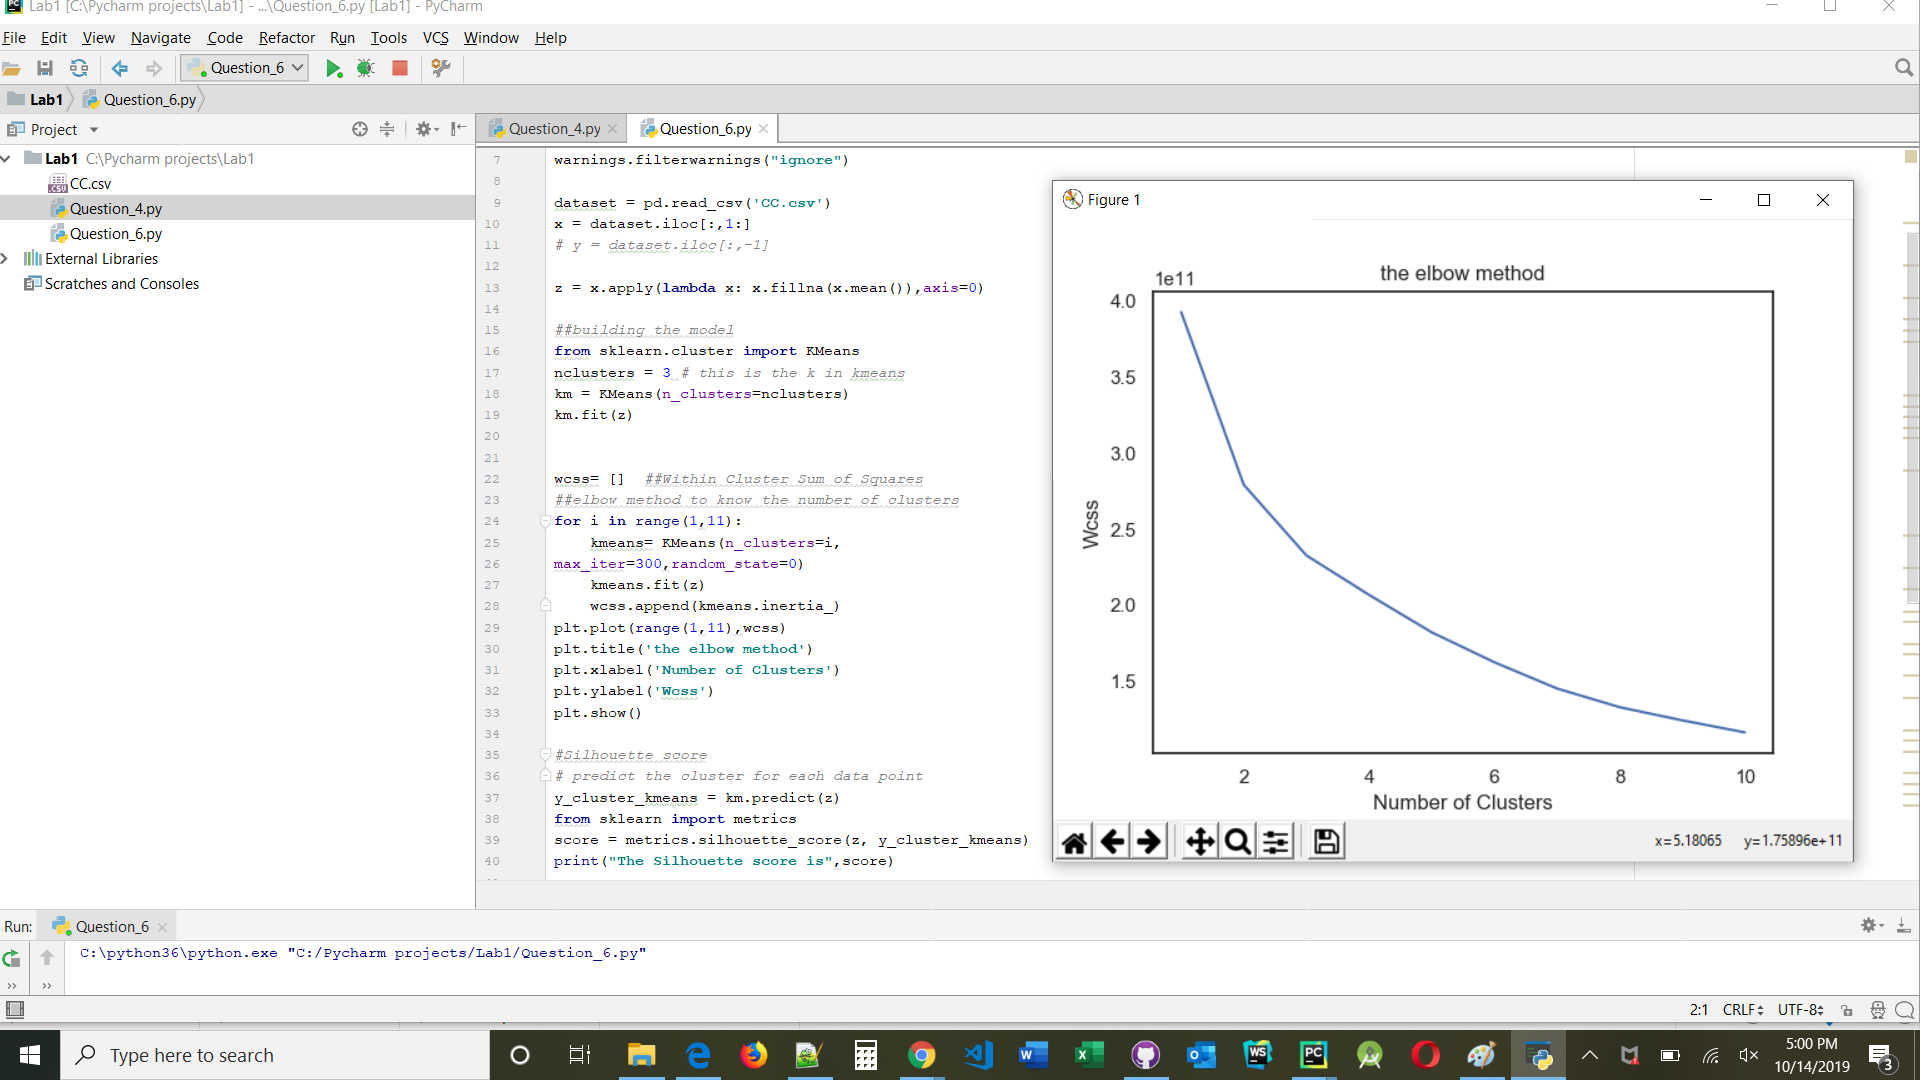
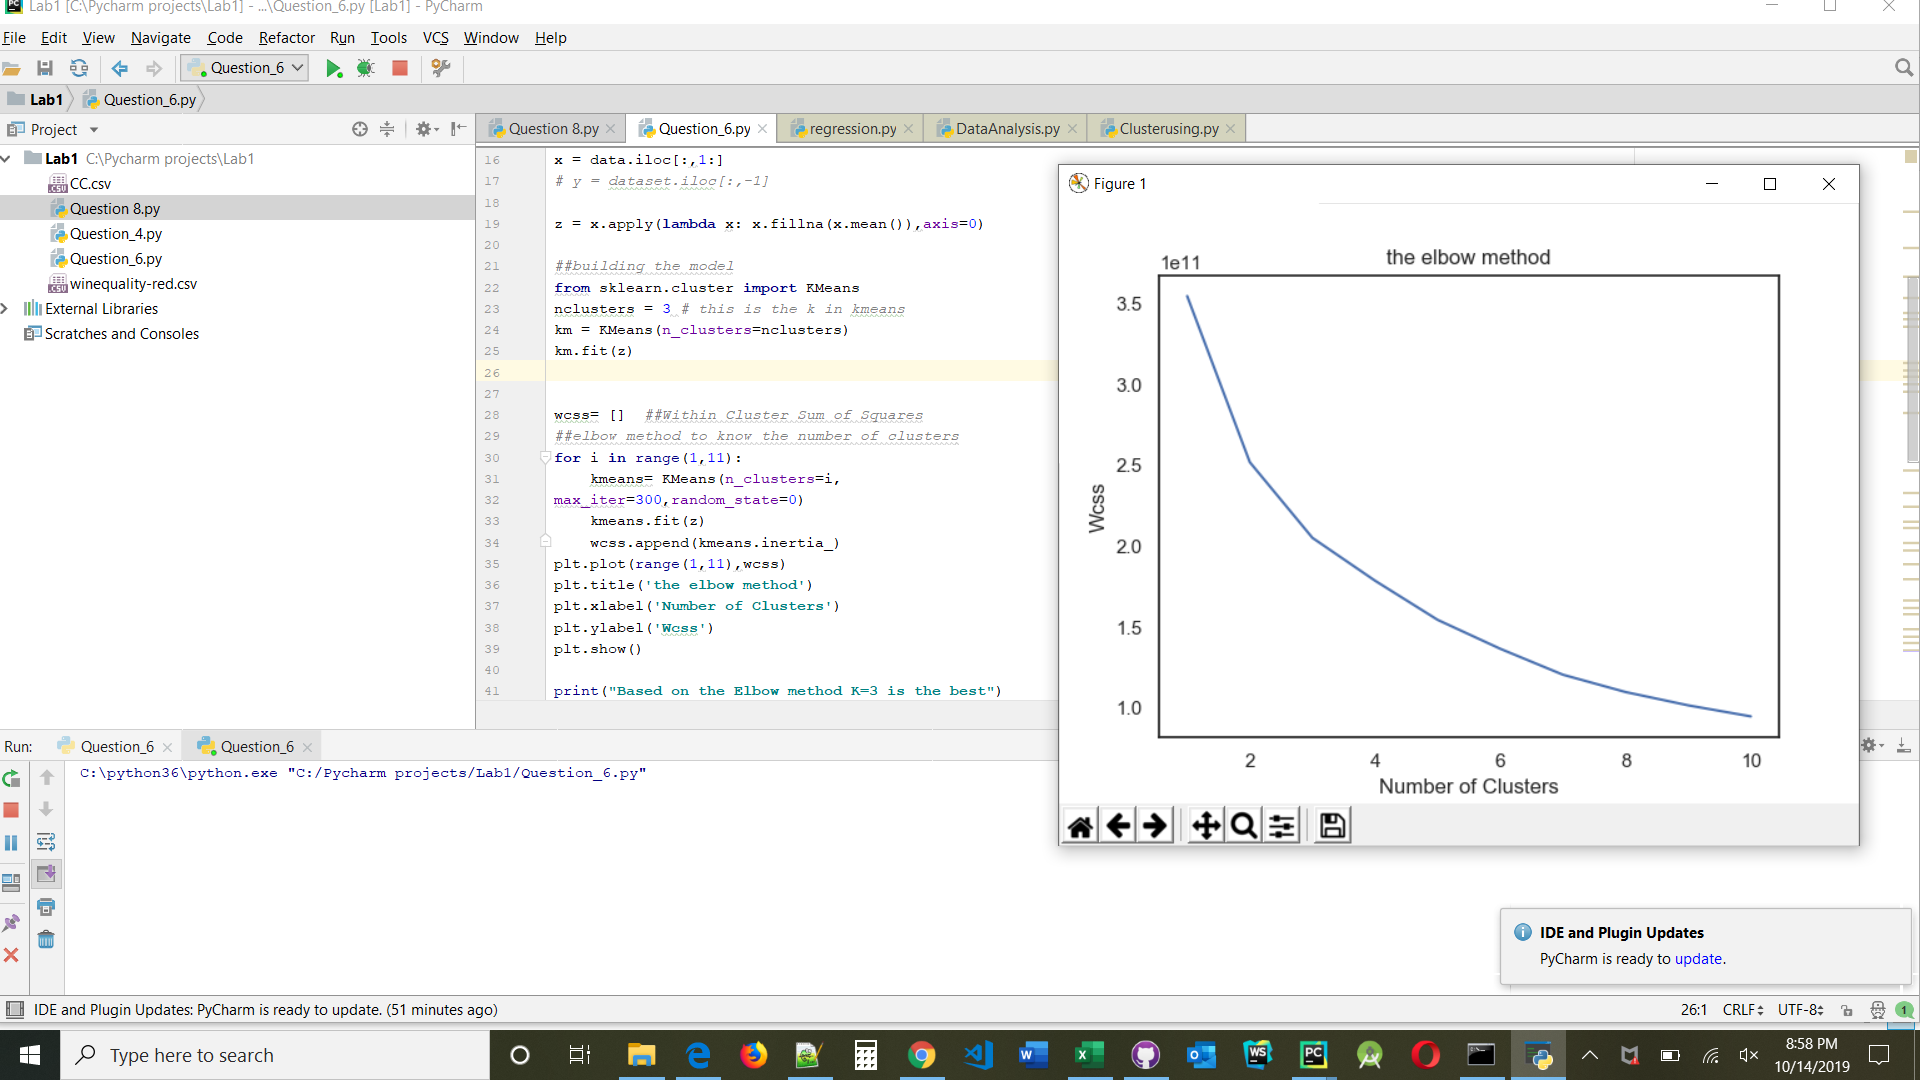
question 6 src and screenshots updated

diff --git a/module-1/Lab 1/Question_6.py b/module-1/Lab 1/Question_6.py
@@ -1,4 +1,5 @@
- import matplotlib.pyplot as plt
+import matplotlib.pyplot as plt
+import numpy as np
 
 import pandas as pd
 import seaborn as sns
@@ -7,7 +8,12 @@ import warnings
 warnings.filterwarnings("ignore")
 
 dataset = pd.read_csv('CC.csv')
-x = dataset.iloc[:,1:]
+
+##handling missing value
+data = dataset.select_dtypes(include=[np.number]).interpolate().dropna()
+
+
+x = data.iloc[:,1:]
 # y = dataset.iloc[:,-1]
 
 z = x.apply(lambda x: x.fillna(x.mean()),axis=0)
@@ -31,6 +37,8 @@ plt.title('the elbow method')
 plt.xlabel('Number of Clusters')
 plt.ylabel('Wcss')
 plt.show()
+
+print("Based on the Elbow method K=3 is the best")
 
 #Silhouette score
 # predict the cluster for each data point
